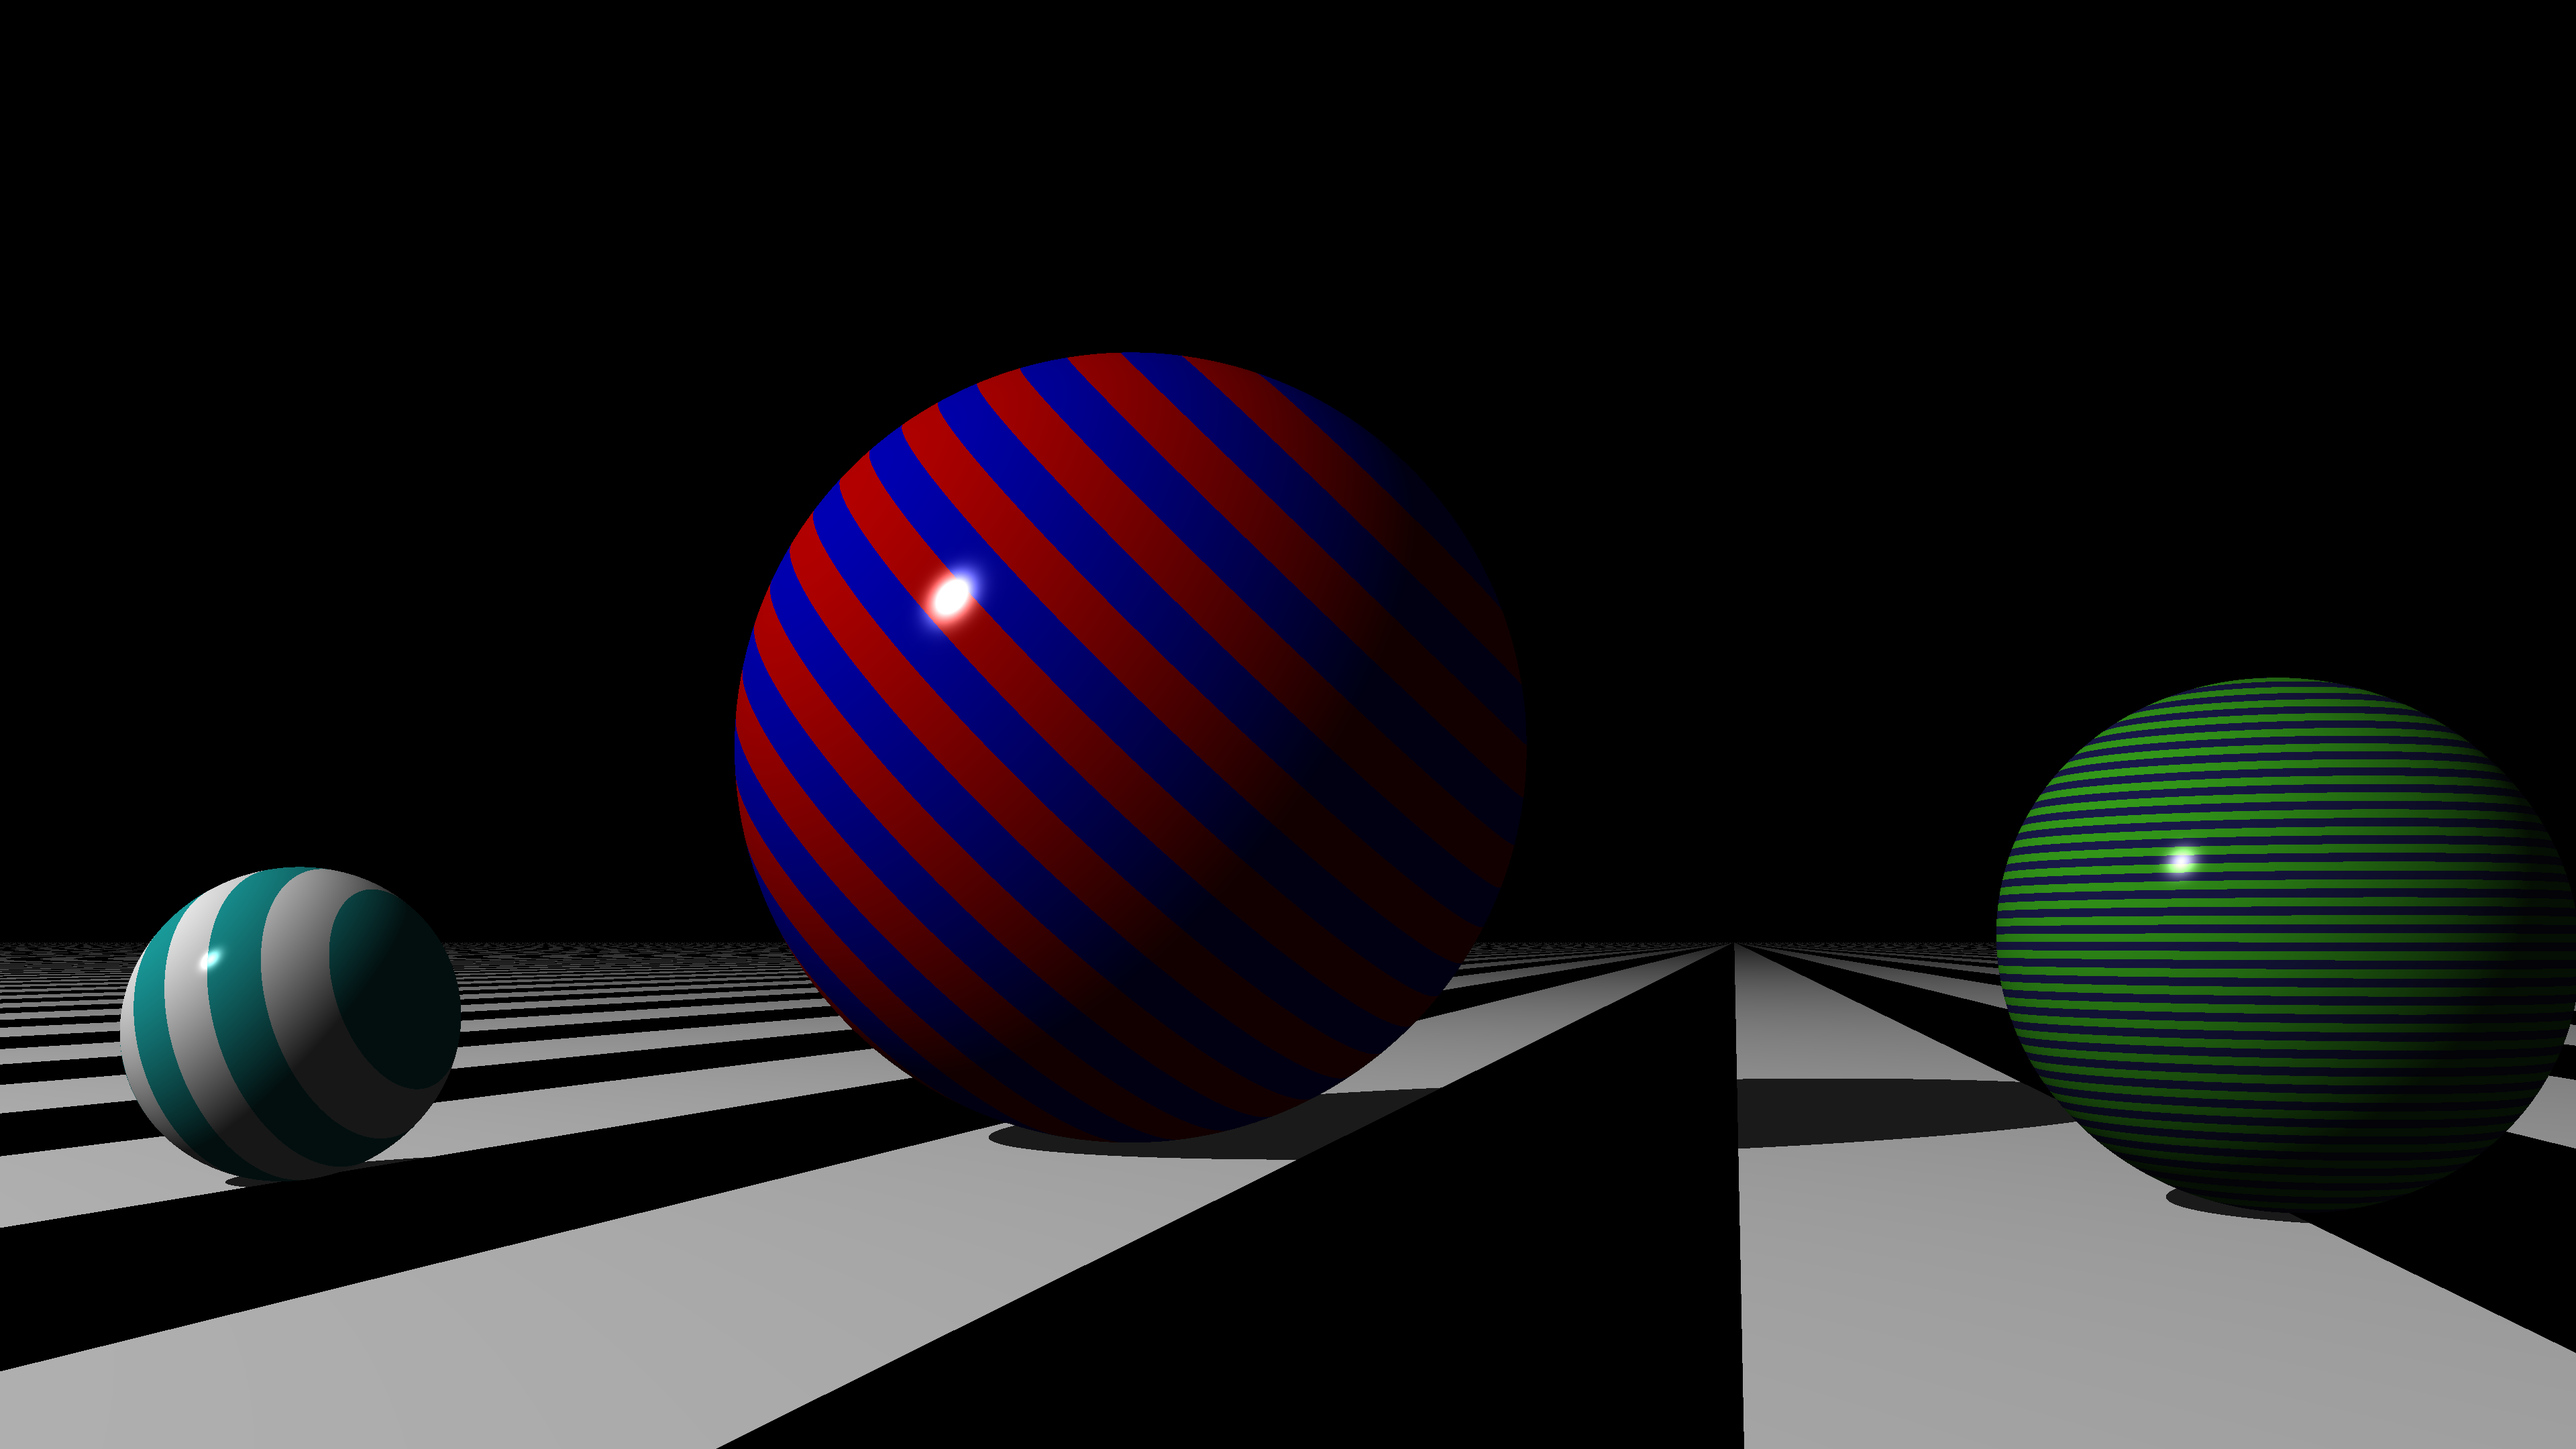
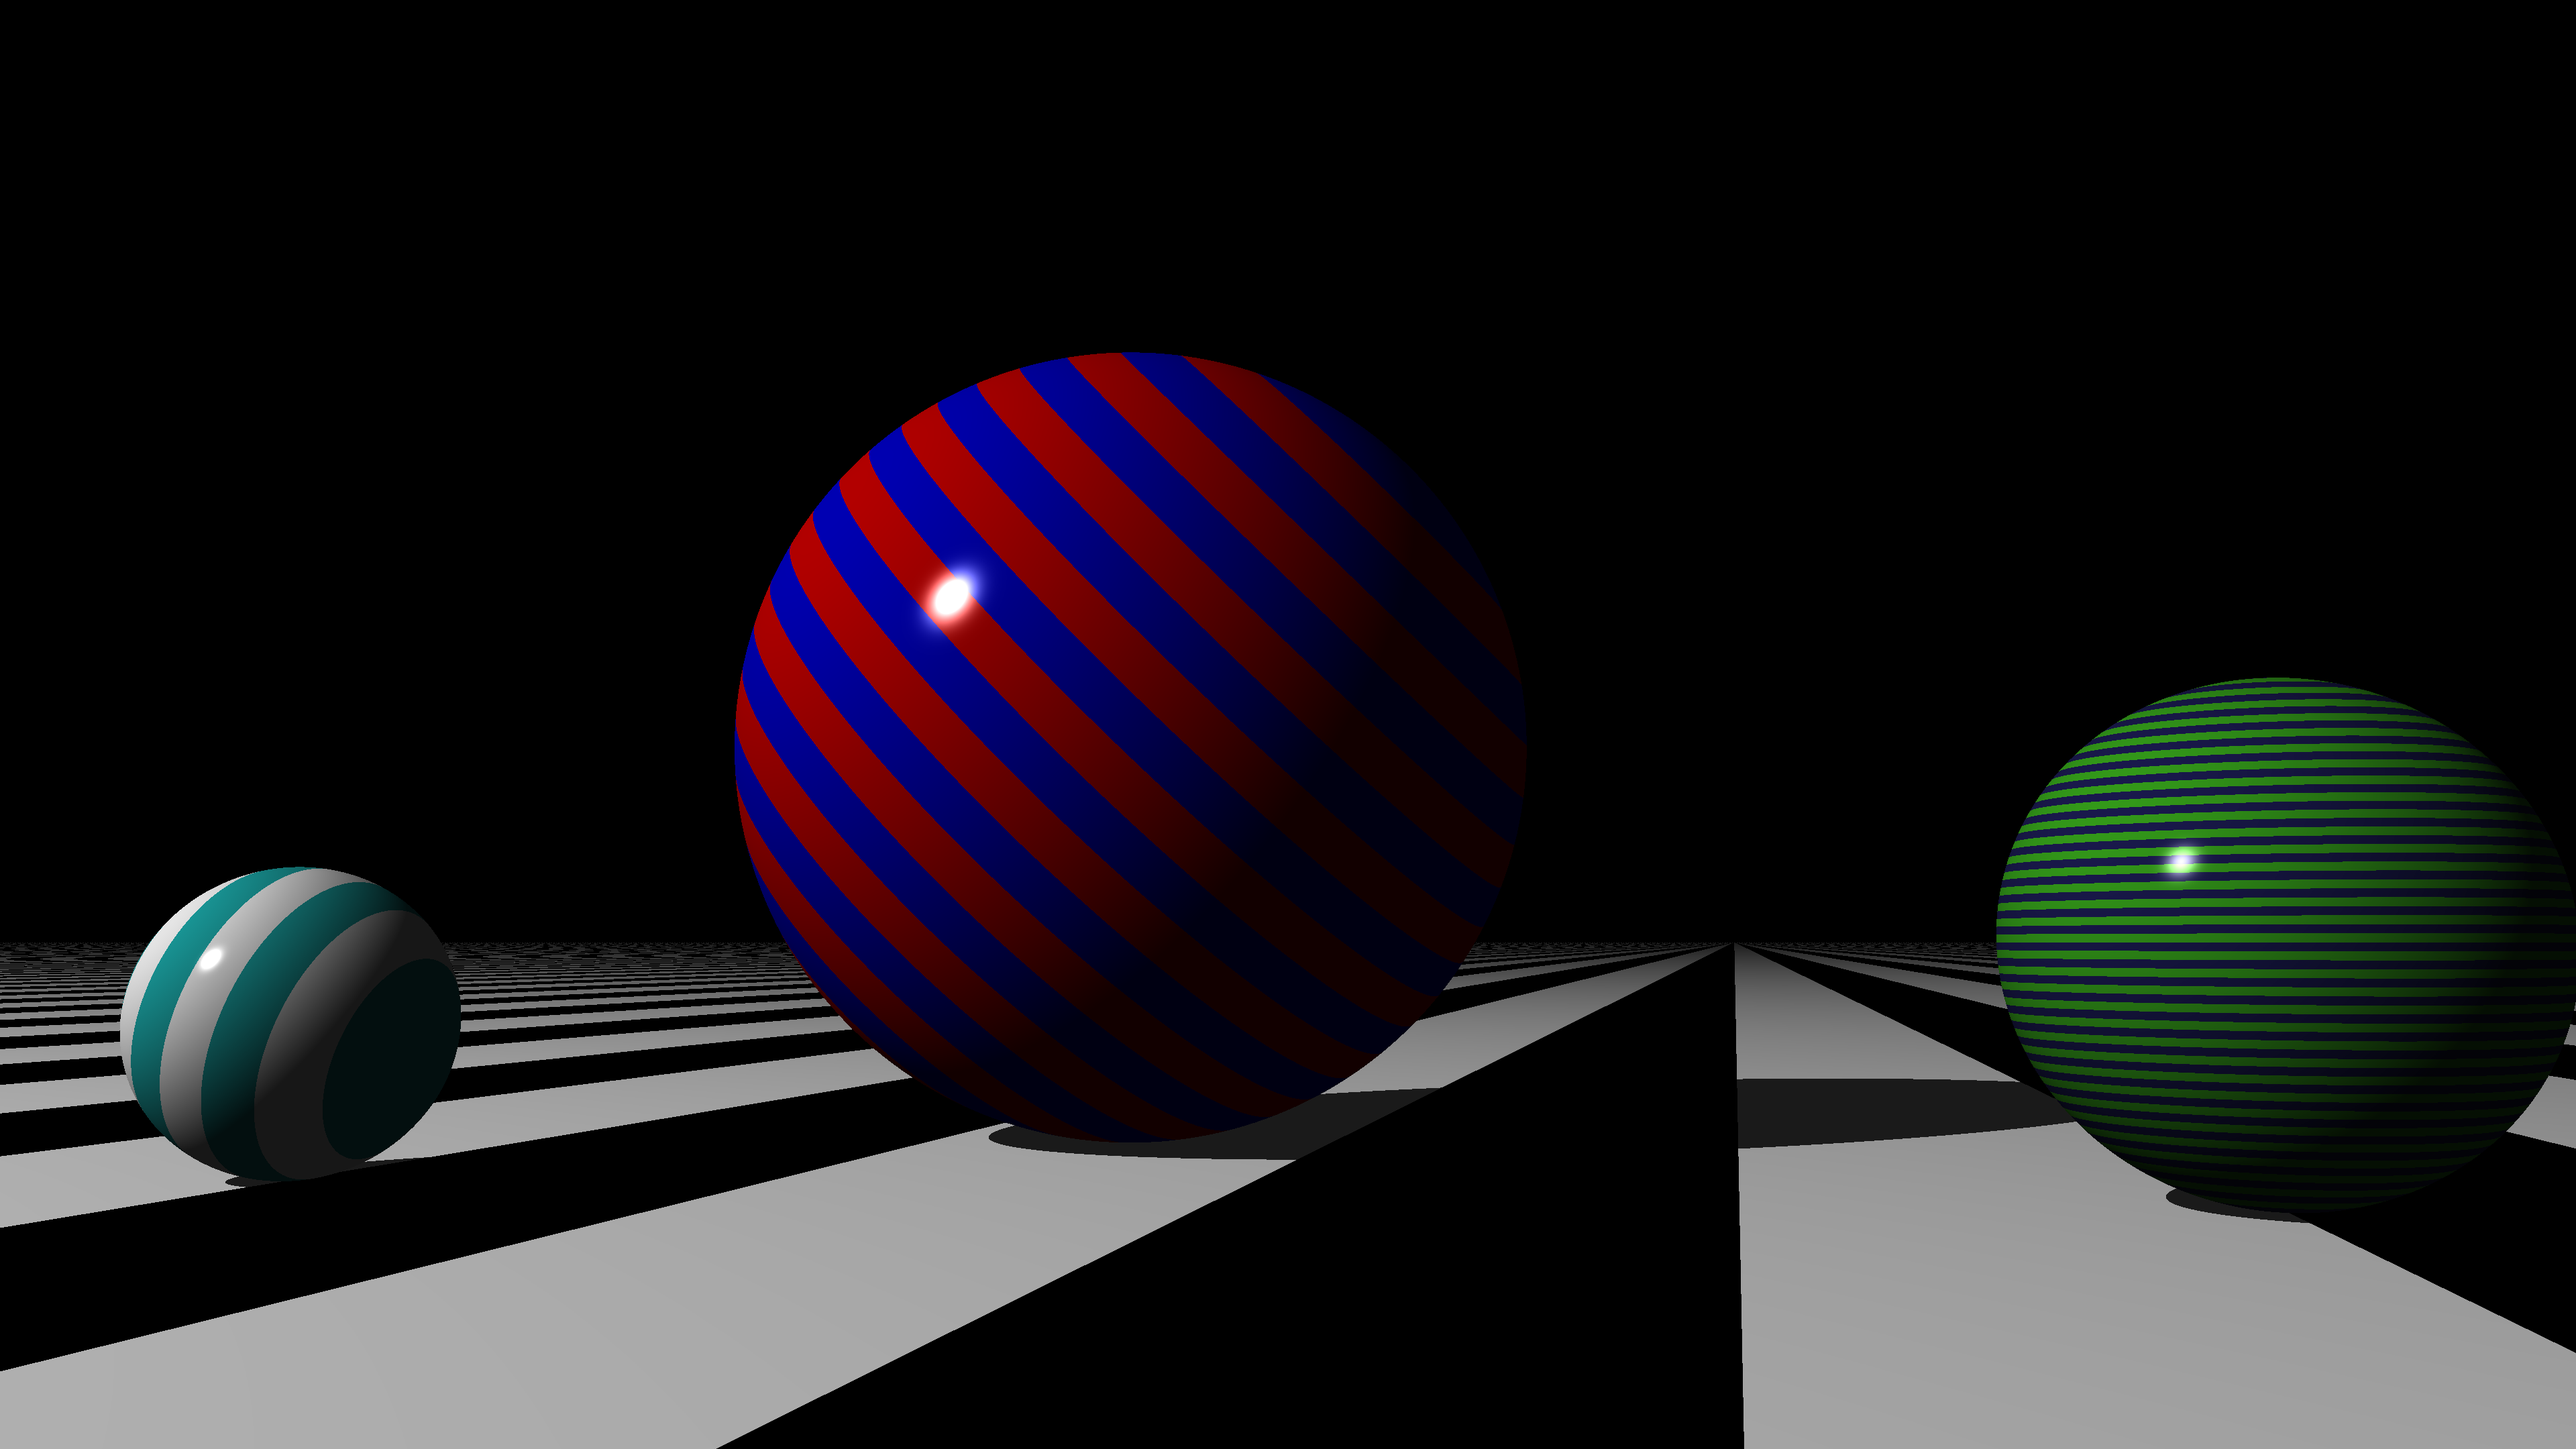
fix: pattern fuzzy_eq

Changed region(s): [[0.0312, 0.5894, 0.1562, 0.8065]]

diff --git a/src/world_loader/yaml.rs b/src/world_loader/yaml.rs
@@ -1,4 +1,5 @@
 use std::collections::HashMap;
+use std::f64::consts::PI;
 
 use super::{LoaderResult, WorldLoader};
 use anyhow::*;
@@ -492,6 +493,20 @@ impl<'a> YamlParser<'a> {
         Ok(combined_transform)
     }
 
+    fn visit_radians_or_degrees(&mut self, transform_hash: &yaml::Hash) -> Result<f64> {
+        if transform_hash.contains_key(key!("radians")) {
+            self.hash_value_to_float(transform_hash, "radians")
+        } else if transform_hash.contains_key(key!("degrees")) {
+            let degrees = self.hash_value_to_float(transform_hash, "degrees").unwrap();
+            Ok((degrees / 180.0) * PI)
+        } else {
+            Err(anyhow!(
+                "Expected either 'degrees' or 'radians' key, but found nothing at {}",
+                self.path.to_string()
+              ))
+        }
+    }
+
     fn visit_transform(&mut self, transform: &yaml::Yaml) -> ParserResult<Matrix<4>> {
         let transform_hash = self.value_to_hash(transform)?;
         let transform_type = self.hash_value_to_string(transform_hash, "type")?;
@@ -509,13 +524,14 @@ impl<'a> YamlParser<'a> {
             self.path.pop();
             Ok(Matrix::scaling(v.x, v.y, v.z))
         } else if transform_type.as_ref() == "rotate_x" {
-            let radians = self.hash_value_to_float(transform_hash, "radians")?;
+            // let radians = self.hash_value_to_float(transform_hash, "radians")?;
+            let radians = self.visit_radians_or_degrees(transform_hash)?;
             Ok(Matrix::rotation_x(radians))
         } else if transform_type.as_ref() == "rotate_y" {
-            let radians = self.hash_value_to_float(transform_hash, "radians")?;
+            let radians = self.visit_radians_or_degrees(transform_hash)?;
             Ok(Matrix::rotation_y(radians))
         } else if transform_type.as_ref() == "rotate_z" {
-            let radians = self.hash_value_to_float(transform_hash, "radians")?;
+            let radians = self.visit_radians_or_degrees(transform_hash)?;
             Ok(Matrix::rotation_z(radians))
         } else {
             Err(anyhow!(
@@ -562,8 +578,11 @@ impl WorldLoader for Loader {
 
 #[cfg(test)]
 mod tests {
+    use std::f64::consts::PI;
+
     use crate::assert_fuzzy_eq;
     use crate::body::Body;
+    use crate::body::Intersectable;
     use crate::camera::Camera;
     use crate::material::Material;
     use crate::material::Phong;
@@ -1252,4 +1271,124 @@ mod tests {
     );
         assert_eq!(actual.to_string(), expected.to_string());
     }
+
+#[test]
+  fn specify_body_rotation_transformation_in_degrees() {
+    let source = r##"
+---
+# Right Sphere
+- body:
+    type: sphere
+    material:
+      type: phong
+      color: [0, 0.5, 1]
+    transforms:
+      - type: rotate_x
+        degrees: 180
+      - type: rotate_y
+        degrees: 90
+      - type: rotate_z
+        degrees: 423
+"##;
+
+    let yaml_loader = Loader::default();
+    let result = yaml_loader.load_world(source);
+    assert!(!result.is_err());
+    let (world, _camera_hash) = result.unwrap();
+
+    assert_eq!(1, world.bodies.len());
+    let body = world.bodies[0];
+
+    let expected_transform = Matrix::rotation_z(423.0 / 180.0 * PI)
+      * Matrix::rotation_y(90.0 / 180.0 * PI)
+      * Matrix::rotation_x(PI);
+
+    assert_eq!(expected_transform, body.transform());
+  }
+
+  #[test]
+  fn striped_pattern_in_body_is_parsed() {
+    let source = r##"
+---
+- body:
+    type: sphere
+    material:
+      type: phong
+      pattern:
+        type: striped
+        colorA: [0,0,0]
+        colorB: [1,1,1]
+        transforms:
+          - type: scale
+            to: [.2,.2,.2]
+          - type: rotate_z
+            degrees: 45
+"##;
+
+    let color_a = Color::new(0.0, 0.0, 0.0);
+    let color_b = Color::new(1.0, 1.0, 1.0);
+    let pattern_transform =
+      Matrix::rotation_z((45.0 / 180.0) * PI) * Matrix::scaling(0.2, 0.2, 0.2);
+    let pattern = Pattern::from(
+      Striped::default()
+        .with_colors(color_a, color_b)
+        .with_transform(pattern_transform),
+    );
+
+    let material = Material::from(Phong::default().with_pattern(pattern));
+    let body_transform = Matrix::identity();
+    let sphere = Sphere::default()
+      .with_material(material)
+      .with_transform(body_transform);
+    let body = Body::from(sphere);
+
+    let yaml_loader = Loader::default();
+
+    let (loaded_world, _) = yaml_loader.load_world(source).unwrap();
+    assert_eq!(1, loaded_world.bodies.len());
+    assert_eq!(body, loaded_world.bodies[0]);
+  }
+
+  #[test]
+  fn colorful_striped_pattern_in_body_is_parsed() {
+    let source = r##"
+---
+- body:
+    type: sphere
+    material:
+      type: phong
+      pattern:
+        type: striped
+        colorA: [0.1,0.2,0.3]
+        colorB: [0.4,0.5,0.6]
+        transforms:
+          - type: scale
+            to: [.2,.2,.2]
+          - type: rotate_z
+            degrees: 90
+"##;
+
+    let color_a = Color::new(0.1, 0.2, 0.3);
+    let color_b = Color::new(0.4, 0.5, 0.6);
+    let pattern_transform =
+      Matrix::rotation_z((90.0 / 180.0) * PI) * Matrix::scaling(0.2, 0.2, 0.2);
+    let pattern = Pattern::from(
+      Striped::default()
+        .with_colors(color_a, color_b)
+        .with_transform(pattern_transform),
+    );
+
+    let material = Material::from(Phong::default().with_pattern(pattern));
+    let body_transform = Matrix::identity();
+    let sphere = Sphere::default()
+      .with_material(material)
+      .with_transform(body_transform);
+    let body = Body::from(sphere);
+
+    let yaml_loader = Loader::default();
+
+    let (loaded_world, _) = yaml_loader.load_world(source).unwrap();
+    assert_eq!(1, loaded_world.bodies.len());
+    assert_eq!(body, loaded_world.bodies[0]);
+  }
 }

diff --git a/src/pattern.rs b/src/pattern.rs
@@ -94,7 +94,7 @@ impl Stencil for Striped {
 
 impl FuzzyEq<Striped> for Striped {
     fn fuzzy_eq(&self, other: Striped) -> bool {
-      self.color_a.fuzzy_eq(other.color_b) && self.color_b.fuzzy_eq(other.color_b)
+      self.color_b.fuzzy_eq(other.color_b) && self.color_b.fuzzy_eq(other.color_b)
     }
   }
 
@@ -171,6 +171,53 @@ use super::*;
     assert_fuzzy_eq!(
       Color::black(),
       pattern.color_at(Tuple::point(-1.1, 0.0, 0.0), &body)
+    );
+  }
+  #[test]
+  fn striped_pattern_adheres_to_object_transform() {
+    let transform = Matrix::scaling(2.0, 2.0, 2.0);
+    let pattern = Pattern::from(Striped::default().with_colors(Color::black(), Color::white()));
+    let body = Body::from(Sphere::default().with_transform(transform));
+
+    assert_fuzzy_eq!(
+      Color::black(),
+      pattern.color_at(Tuple::point(1.5, 0.0, 0.0), &body)
+    );
+  }
+
+  #[test]
+  fn striped_pattern_adheres_to_pattern_transform() {
+    let transform = Matrix::scaling(2.0, 2.0, 2.0);
+    let pattern = Pattern::from(
+      Striped::default()
+        .with_colors(Color::black(), Color::white())
+        .with_transform(transform),
+    );
+    let body = Body::from(Sphere::default());
+
+    assert_fuzzy_eq!(
+      Color::black(),
+      pattern.color_at(Tuple::point(1.5, 0.0, 0.0), &body)
+    );
+  }
+
+  #[test]
+  fn striped_pattern_adheres_to_object_and_pattern_transform() {
+    let transform = Matrix::scaling(2.0, 2.0, 2.0);
+    let pattern = Pattern::from(
+      Striped::default()
+        .with_colors(Color::black(), Color::white())
+        .with_transform(transform),
+    );
+    let body = Body::from(Sphere::default().with_transform(transform));
+
+    assert_fuzzy_eq!(
+      Color::black(),
+      pattern.color_at(Tuple::point(3.5, 0.0, 0.0), &body)
+    );
+    assert_fuzzy_eq!(
+      Color::white(),
+      pattern.color_at(Tuple::point(4.0, 0.0, 0.0), &body)
     );
   }
 }
